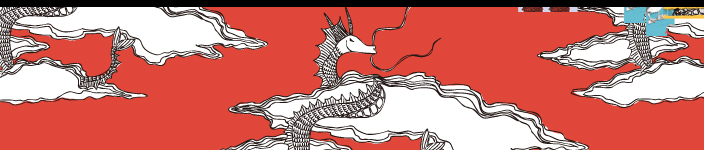
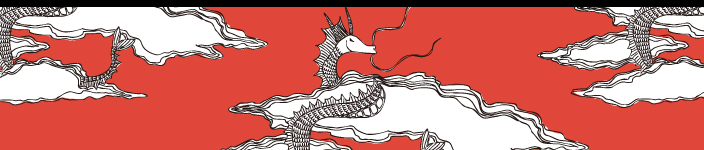
ヘッダ、画像修正

Changed region(s): [[0.875, 0.0267, 1.0, 0.24], [0.7188, 0.0267, 0.8438, 0.08]]

diff --git a/app/assets/stylesheets/welcome.css.scss b/app/assets/stylesheets/welcome.css.scss
@@ -17,8 +17,15 @@
 .banner {
   margin-bottom: 10px;
   .visual {
-    background: image-url('welcome/header_bg_01.jpg') center center no-repeat;
+    position: relative;
     height: 356px;
+    .background {
+      .visual01 {
+        height: 356px;
+        width: 100%;
+        background: image-url('welcome/header_bg_01.jpg') center center no-repeat;
+      }
+    }
     .container {
       .large {
         height: 250px;

diff --git a/app/assets/stylesheets/application.css.scss b/app/assets/stylesheets/application.css.scss
@@ -35,6 +35,9 @@
     padding: 10px 0;
     font-weight: bold;
     font-size: 24px;
+    .logo-image {
+      margin-right: 10px;
+    }
   }
   .consumer {
     float: right;
